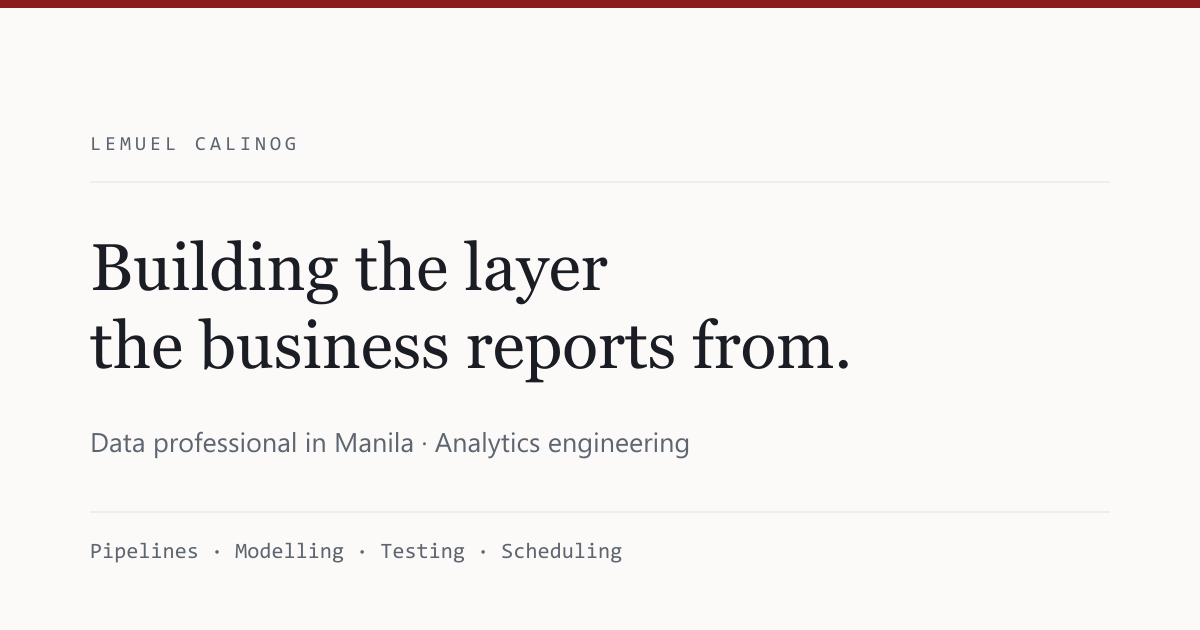
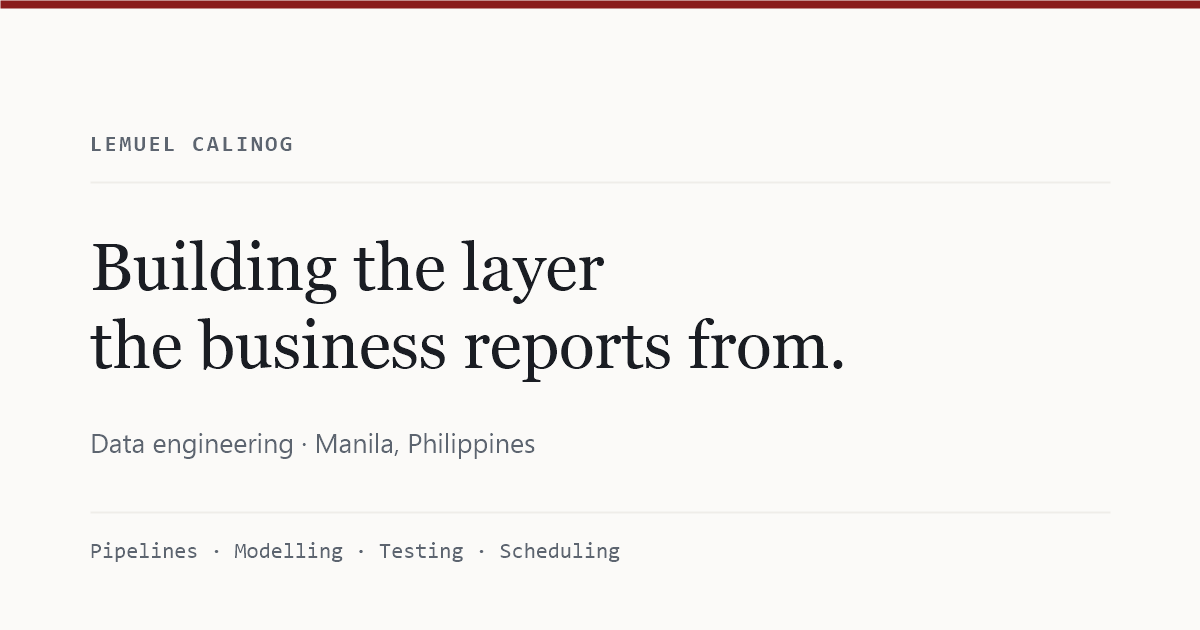
docs: retitle the site to Data Engineering
Data engineering is the simpler and more commonly searched term, and it
matches the availability line the hero already carries.

The title appears in three places, not two. The <title> tag drives the
browser tab, bookmarks and the search result. og:title drives the bold
line on a link preview card. The third is the card image itself, where
the old wording was baked into the pixels, so the meta tags alone would
have left a card headed Data Engineering above an image reading
Analytics engineering.

No source existed for that image, so the design was recovered from the
original PNG: background #FBFAF8, an 8px #8A1C1C bar, rules #EFEDE9 at
y=182 and y=512, ink #1A1D23, muted #5D6570, 90px margins. Font sizes
are fitted to the original's measured text widths, which puts Georgia at
65.53px and the two mono lines at 21.9px.

The subtitle reads "Data engineering · Manila, Philippines" rather than
repeating the word data, and matches the form used in the footer.

Every text band lands within 2px of the original, 1200x630 is preserved
so the declared og:image dimensions stay correct, and the file is 25KB
against the previous 41.7KB.

diff --git a/index.html b/index.html
@@ -3,11 +3,11 @@
 <head>
 <meta charset="utf-8">
 <meta name="viewport" content="width=device-width, initial-scale=1">
-<title>Lemuel Calinog — Analytics Engineering</title>
+<title>Lemuel Calinog — Data Engineering</title>
 <meta name="description" content="Data professional in Manila. I build the layer the business reports from: the pipelines that bring data in, the models that make sense of it, and the reporting that sits on top.">
 
 <meta property="og:type" content="website">
-<meta property="og:title" content="Lemuel Calinog — Analytics Engineering">
+<meta property="og:title" content="Lemuel Calinog — Data Engineering">
 <meta property="og:description" content="I build the layer the business reports from: the pipelines that bring data in, the models that make sense of it, and the reporting that sits on top.">
 <meta property="og:url" content="https://lemybetheone.vercel.app/">
 <!-- og:image must be an absolute URL: LinkedIn will not resolve a relative one.
